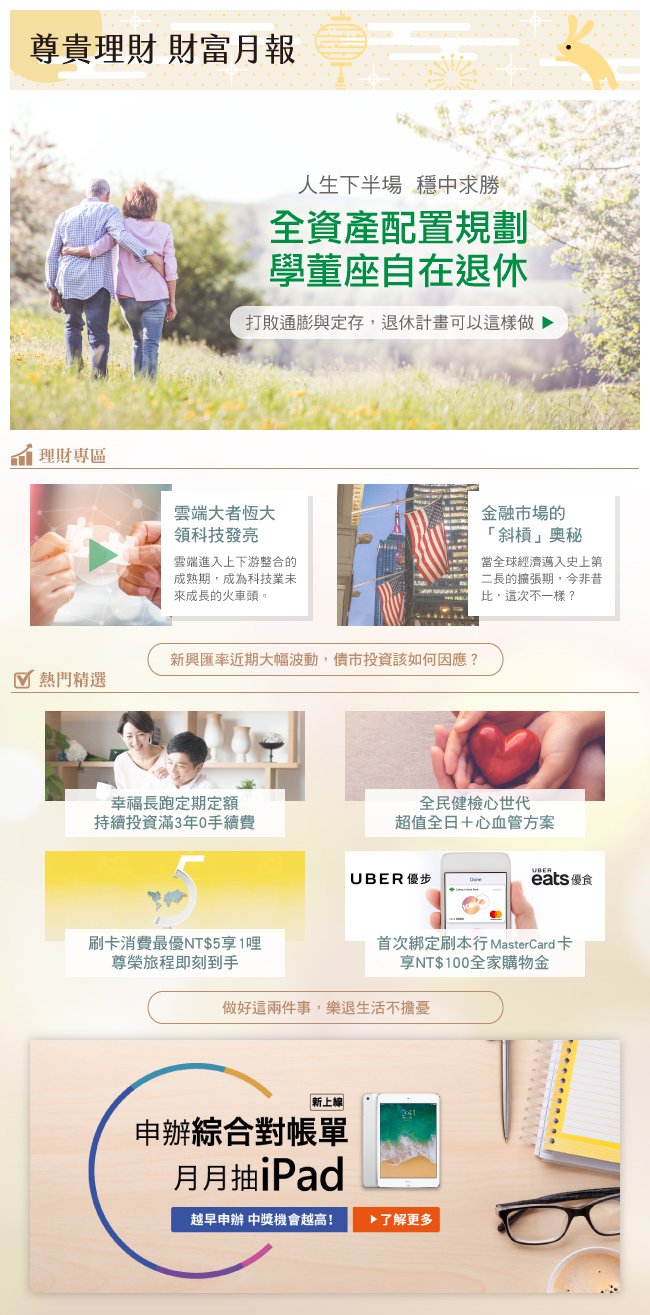
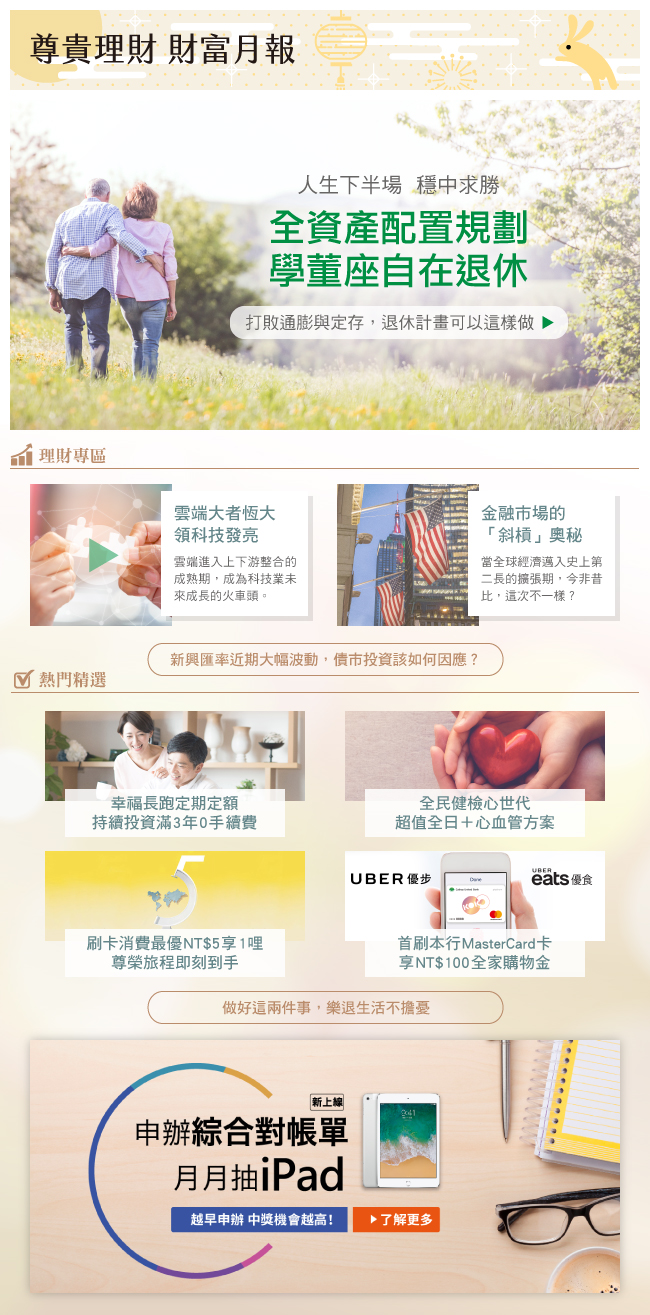
up

diff --git a/monthly-report-201809/index.html b/monthly-report-201809/index.html
@@ -112,17 +112,17 @@
 </table>
 
 <map name="Map6">
-  <area shape="rect" coords="9,100,640,431" href="http://thebetteraging.businesstoday.com.tw/article/detail/201808280039/全資產配置規劃 學董座自在退休?CUB_SRC=WM_EDM&CUB_CHL1=BAN&CUB_CHL2=01&MA_TK=WM082&CUB_DT=20180910" target="_blank" alt="全資產配置規劃   學董座自在退休">
+  <area shape="rect" coords="9,100,640,431" href="http://thebetteraging.businesstoday.com.tw/article/detail/201808280039/全資產配置規劃 學董座自在退休?CUB_SRC=WM_EDM&CUB_CHL1=BAN&CUB_CHL2=01&MA_TK=WM082&CUB_DT=20180910" target="_blank" alt="全資產配置規劃 學董座自在退休">
   <area shape="rect" coords="155,991,496,1024" href="https://www.cathaybk.com.tw/Cathaybk/?CUB_SRC=WM_EDM&CUB_CHL1=BAN&CUB_CHL2=01&MA_TK=WM082&CUB_DT=20180910" target="_blank" alt="做好這兩件事，樂退生活不擔憂">
-  <area shape="rect" coords="156,642,496,675" href="https://www.cathaybk.com.tw/cathaybk/promo/event/fund/cathayfund/market.html?CUB_SRC=WM_EDM&CUB_CHL1=BAN&CUB_CHL2=01&MA_TK=WM082&CUB_DT=20180910" target="_blank" alt="幸福長跑定期定額">
+  <area shape="rect" coords="156,642,496,675" href="https://www.cathaybk.com.tw/cathaybk/promo/event/fund/cathayfund/market.html?CUB_SRC=WM_EDM&CUB_CHL1=BAN&CUB_CHL2=01&MA_TK=WM082&CUB_DT=20180910" target="_blank" alt="新興匯率近期大幅波動，債市投資該如何因應？">
     <area shape="rect" coords="173,484,309,626" href="https://www.cathaybk.com.tw/cathaybk?CUB_SRC=WM_EDM&CUB_CHL1=BAN&CUB_CHL2=01&MA_TK=WM082&CUB_DT=20180910" target="_blank" alt="雲端大者恆大 領科技發亮">
     <area shape="rect" coords="29,483,173,626" href="https://youtu.be/2u0-K3hUNtE?CUB_SRC=WM_EDM&CUB_CHL1=BAN&CUB_CHL2=01&MA_TK=WM082&CUB_DT=20180910" target="_blank" alt="雲端大者恆大 領科技發亮">
 <area shape="rect" coords="30,1039,622,1294" href="https://www.cathaybk.com.tw/cathaybk/promo/event/wealth/service/2018/onestatment/index.html?CUB_SRC=EDM&CUB_CHL1=URL&CUB_CHL2=02&MA_TK=WM105&CUB_DT=20180901" target="_blank" alt="綜合對帳單">
     <area shape="rect" coords="337,484,622,626" href="https://www.cathaybk.com.tw/cathaybk?CUB_SRC=WM_EDM&CUB_CHL1=BAN&CUB_CHL2=01&MA_TK=WM082&CUB_DT=20180910" target="_blank" alt="金融市場的 「斜槓」奧秘">
     <area shape="rect" coords="45,711,303,838" href="https://www.cathaybk.com.tw/cathaybk/promo/event/fund/cathayfund/zero/index.html?type=type3&CUB_SRC=WM_EDM&CUB_CHL1=BAN&CUB_CHL2=01&MA_TK=WM082&CUB_DT=20180910" target="_blank" alt="幸福長跑定期定額">
 <area shape="rect" coords="346,710,605,837" href="https://www.cathay-hcm.com.tw/tw/front/newsItem/8a95bc2361b7860c0165370783a309b7?CUB_SRC=WM_EDM&CUB_CHL1=BAN&CUB_CHL2=01&MA_TK=WM082&CUB_DT=20180910" target="_blank" alt="全民健檢心世代">
-<area shape="rect" coords="46,851,305,977" href="https://www.cathaybk.com.tw/cathaybk/personal/apply/campaign/creditcard/evaanniversary?utm_source=cathay_lightbox&utm_medium=display&utm_campaign=eva_anniversary&utm_term=180901&CUB_SRC=WM_EDM&CUB_CHL1=BAN&CUB_CHL2=01&MA_TK=WM082&CUB_DT=20180910" target="_blank" alt="刷卡消費NT$5享1哩">
-<area shape="rect" coords="343,850,605,978" href="https://www.cathaybk.com.tw/cathaybk/personal/credit-card/discount/event/online-shopping/uber_uber-eats-app_mc/?CUB_SRC=WM_EDM&CUB_CHL1=BAN&CUB_CHL2=01&MA_TK=WM082&CUB_DT=20180910" target="_blank" alt="搭Uber刷國泰世華卡">
+<area shape="rect" coords="46,851,305,977" href="https://www.cathaybk.com.tw/cathaybk/personal/apply/campaign/creditcard/evaanniversary?utm_source=cathay_lightbox&utm_medium=display&utm_campaign=eva_anniversary&utm_term=180901&CUB_SRC=WM_EDM&CUB_CHL1=BAN&CUB_CHL2=01&MA_TK=WM082&CUB_DT=20180910" target="_blank" alt="刷卡消費最優NT$5享1哩">
+<area shape="rect" coords="343,850,605,978" href="https://www.cathaybk.com.tw/cathaybk/personal/credit-card/discount/event/online-shopping/uber_uber-eats-app_mc/?CUB_SRC=WM_EDM&CUB_CHL1=BAN&CUB_CHL2=01&MA_TK=WM082&CUB_DT=20180910" target="_blank" alt="Uber eats首次綁定刷本行MasterCard卡">
 </map>
 
 <map name="Map">

diff --git a/MR201809-html/201809_3/index.html b/MR201809-html/201809_3/index.html
@@ -8,7 +8,7 @@
 <!-- viewport -->
 <meta name="viewport" id="viewport" content="width=device-width, initial-scale=1, maximum-scale=1">
 <!-- SEO -->
-<meta name="keywords" content="國泰世華、財富管理、子女保障信託、遺產繼承、預留稅源、財富傳承"/>
+<meta name="keywords" content="國泰世華、財富管理、退休金、年金改革、月退、全資產配置、悠活退休信託、現金流"/>
 <meta name="description" content="軍公教年金改革今年7月1日正式上路，改革的範圍和幅度對領受人有不小的衝擊，包括月退休俸的計算、18%的優存刪減等，換言之，未來社會的退休保障給付，已趨向支持基本生活開銷而已。" />          
 
 
